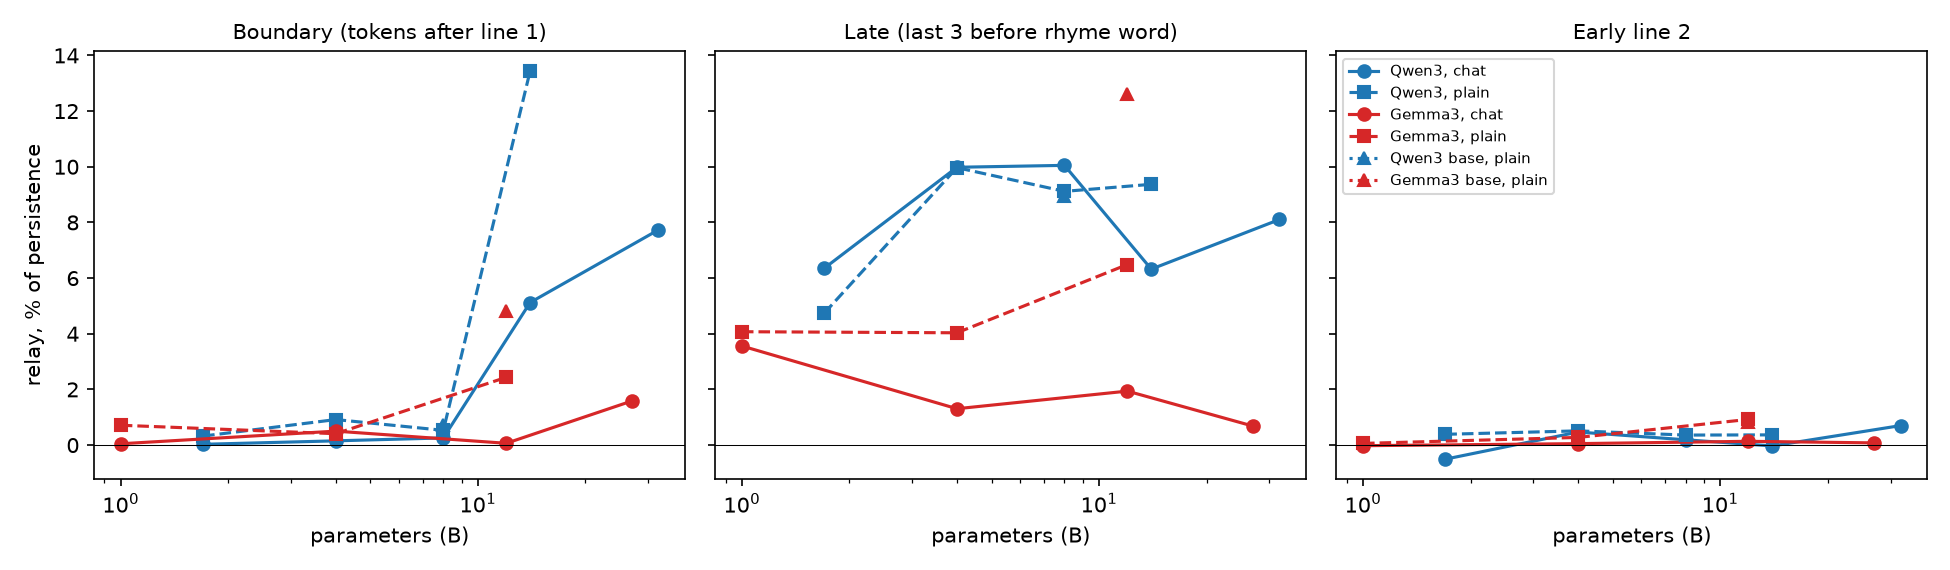
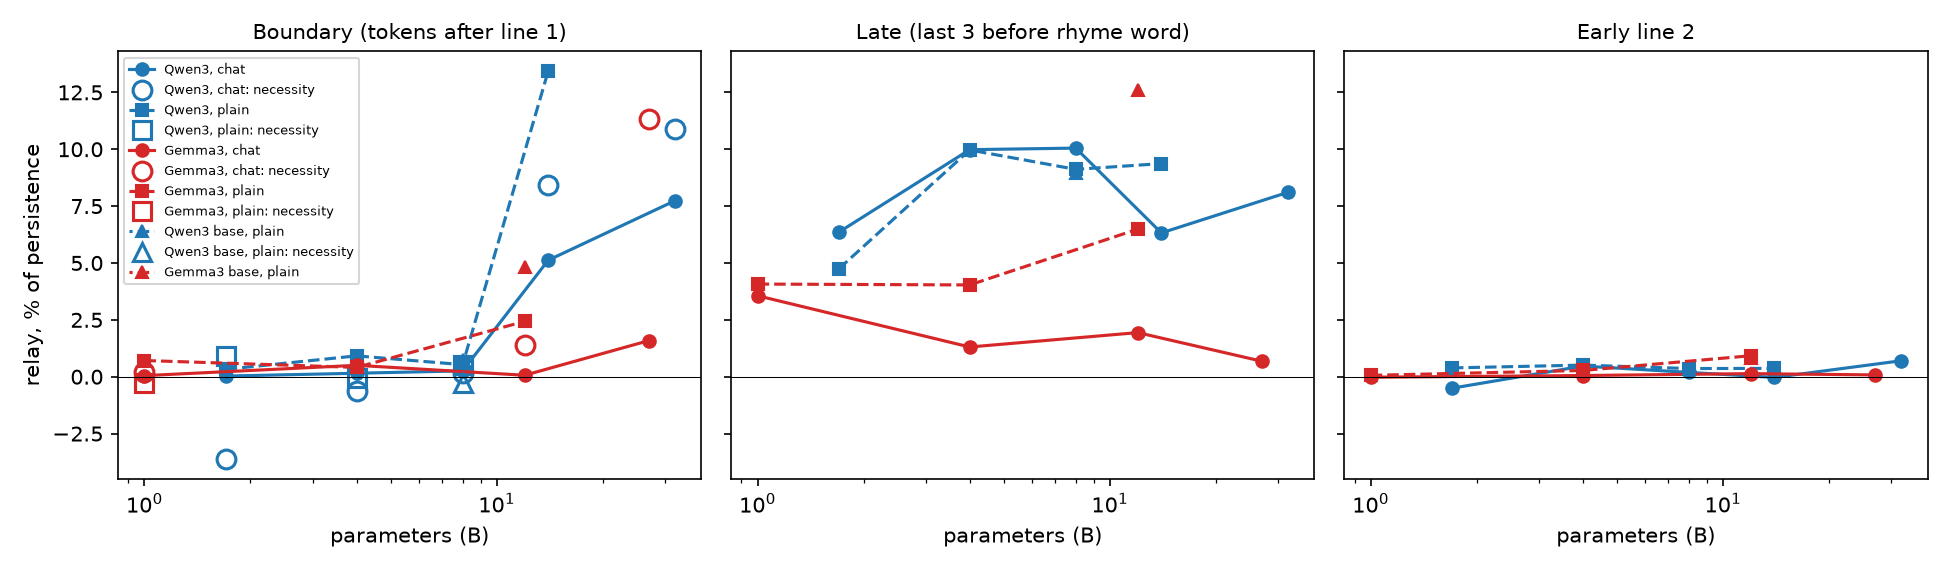
Scale summary figure: boundary necessity as hollow markers

diff --git a/experiments/couplet_routes/scale_summary.py b/experiments/couplet_routes/scale_summary.py
@@ -3,7 +3,7 @@
 
 Reads results/<model>/{step34,relay_positions,relay_necessity}_summary.json for every
 run present and writes results/scale_summary.md (table) and results/scale_summary.png
-(figure). Quantities are shares of persistence (original line-2 words), which makes
+(figure; hollow markers in the boundary panel are necessity). Quantities are shares of persistence (original line-2 words), which makes
 families with different log-probability scales comparable: retrieval, relay (all
 in-between positions), boundary (prompt tail after line 1), late (last 3 positions
 before the rhyme word), early line 2, and boundary necessity where measured.
@@ -79,9 +79,15 @@ def main() -> None:
             pts = sorted((r["size"], r[key]) for r in rows if r["family"] == fam and r["format"] == fmt)
             if pts:
                 ax.plot([p[0] for p in pts], [100 * p[1] for p in pts], color=c, marker=mk, ls=ls, label=f"{fam}, {fmt}")
+            if key == "boundary":
+                nec = sorted((r["size"], r["boundary_necessity"]) for r in rows
+                             if r["family"] == fam and r["format"] == fmt and r["boundary_necessity"] is not None)
+                if nec:
+                    ax.plot([p[0] for p in nec], [100 * p[1] for p in nec], color=c, marker=mk, ls="none",
+                            mfc="none", ms=9, mew=1.5, label=f"{fam}, {fmt}: necessity")
         ax.set_xscale("log"); ax.set_title(title, fontsize=10); ax.set_xlabel("parameters (B)"); ax.axhline(0, color="k", lw=0.5)
     axes[0].set_ylabel("relay, % of persistence")
-    axes[-1].legend(fontsize=7, loc="upper left")
+    axes[0].legend(fontsize=6, loc="upper left")
     fig.tight_layout()
     fig.savefig(R / "scale_summary.png", dpi=150)
 
